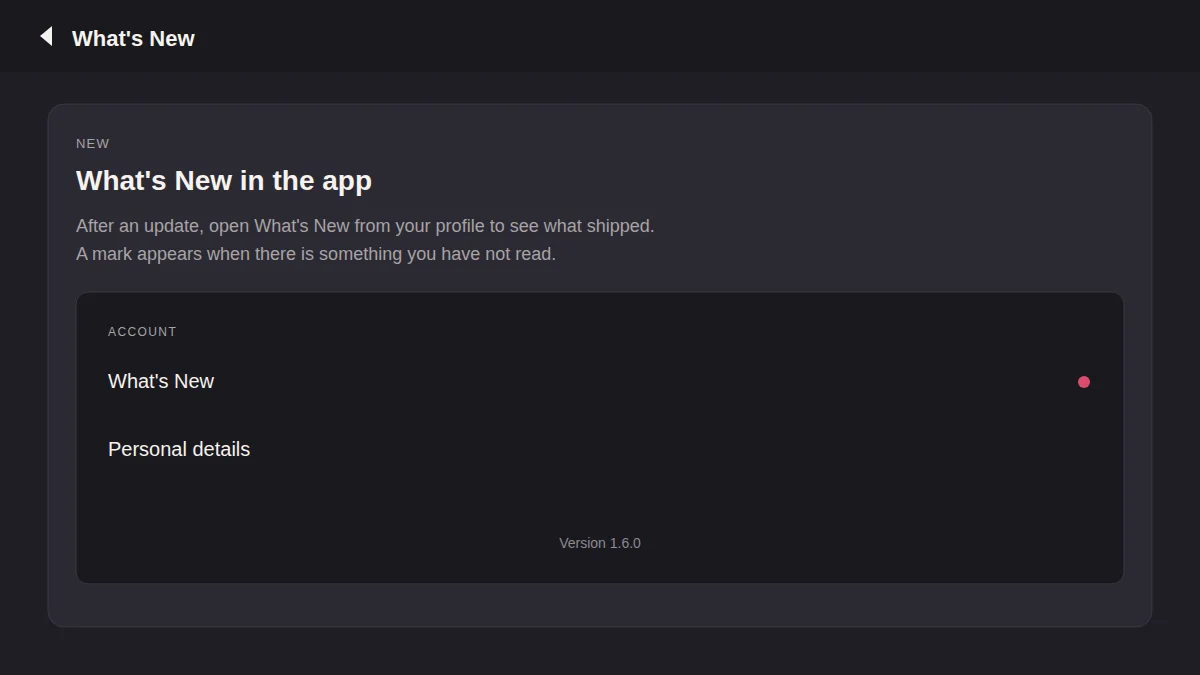
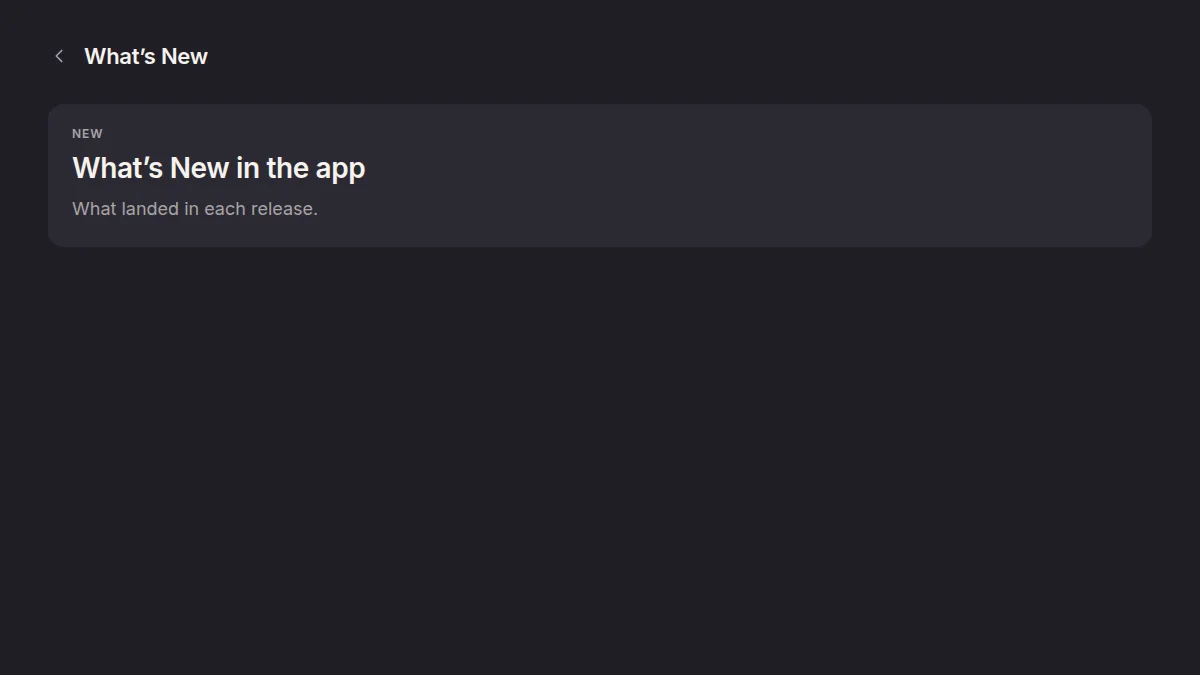
Show What’s New as a ship note, not the profile sheet
The still was a mock of Account and Personal details. The summary
told people how to open it. The card now says what landed, and the
row sits on its own above Account.

diff --git a/app/whats-new/media.generated.ts b/app/whats-new/media.generated.ts
@@ -1,5 +1,5 @@
 /** Bytes for each What’s New still, so the Worker does not need the filesystem. */
 export const WHATS_NEW_MEDIA_V1: Readonly<Record<string, string>> = {
   "whats-new.webp":
[2 lines of base64/hex data omitted]
 };

diff --git a/apps/native/lib/shell/app_shell.dart b/apps/native/lib/shell/app_shell.dart
@@ -3069,7 +3069,7 @@ class _AppShellState extends State<AppShell> with WidgetsBindingObserver {
                             onTap: () => unawaited(_openBilling()),
                           ),
                         ),
-                      _profileGroup('Account', [
+                      _profileGroup(null, [
                         identified(
                           SettingsIds.profileWhatsNew,
                           FrockRow(
@@ -3081,6 +3081,8 @@ class _AppShellState extends State<AppShell> with WidgetsBindingObserver {
                             onTap: _openWhatsNew,
                           ),
                         ),
+                      ]),
+                      _profileGroup('Account', [
                         _profileRow(
                           SettingsIds.profileSettings,
                           Icons.settings_outlined,

diff --git a/app/whats-new/entries.ts b/app/whats-new/entries.ts
@@ -25,8 +25,7 @@ export const WHATS_NEW_ENTRIES_V1: readonly WhatsNewEntrySourceV1[] = [
   {
     id: "whats-new",
     title: "What’s New in the app",
-    summary:
-      "After an update, open What’s New from your profile to see what shipped. A mark appears when there is something you have not read.",
+    summary: "What landed in each release.",
     kind: "feature",
     image: {
       file: "whats-new.webp",

diff --git a/apps/native/test/whats_new_test.dart b/apps/native/test/whats_new_test.dart
@@ -139,7 +139,7 @@ void main() {
               WhatsNewEntry(
                 id: 'whats-new',
                 title: 'What’s New in the app',
-                summary: 'After an update, open What’s New from your profile.',
+                summary: 'What landed in each release.',
                 kind: 'feature',
                 image: WhatsNewImage(
                   src: '/whats-new/whats-new.webp',

diff --git a/app/whats-new/feed.test.ts b/app/whats-new/feed.test.ts
@@ -17,7 +17,7 @@ describe("What’s New feed", () => {
       },
     });
     expect(feed.entries[0]?.publishedAt).toBeUndefined();
-    expect(feed.entries[0]?.summary).toContain("from your profile");
+    expect(feed.entries[0]?.summary).toBe("What landed in each release.");
   });
 
   test("a known production day is attached without inventing one", () => {

diff --git a/app/whats-new/PREVIEW.md b/app/whats-new/PREVIEW.md
@@ -6,6 +6,6 @@ Generated from `entries.ts`. Open this file on the pull request to review the co
 
 feature
 
-After an update, open What’s New from your profile to see what shipped. A mark appears when there is something you have not read.
+What landed in each release.
 
 ![The What’s New page, with this feature as its first entry.](media/whats-new.webp)
